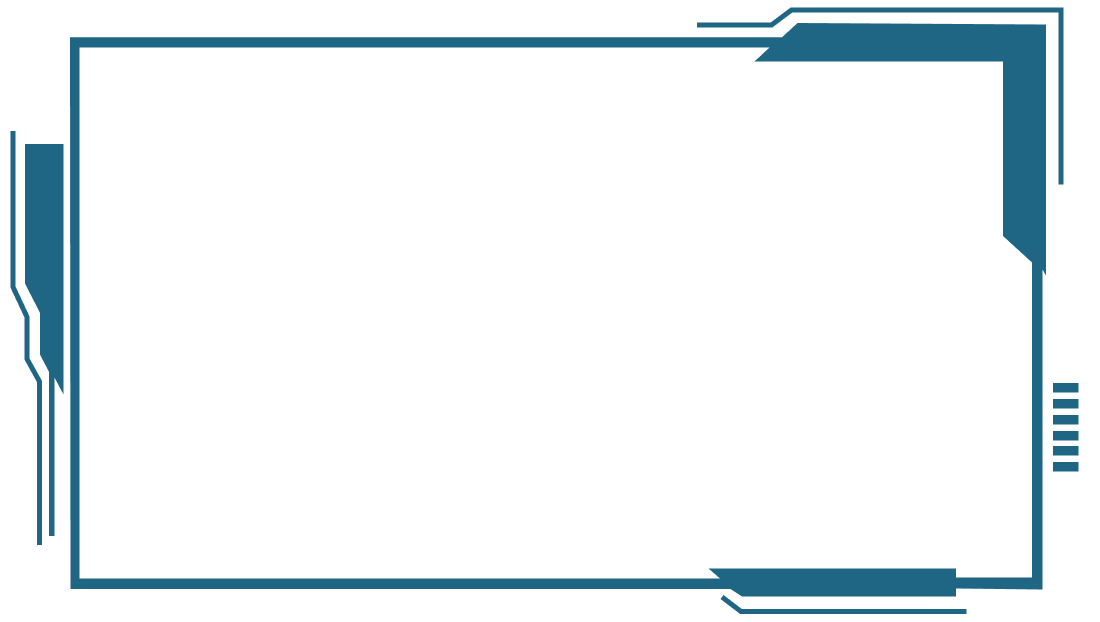
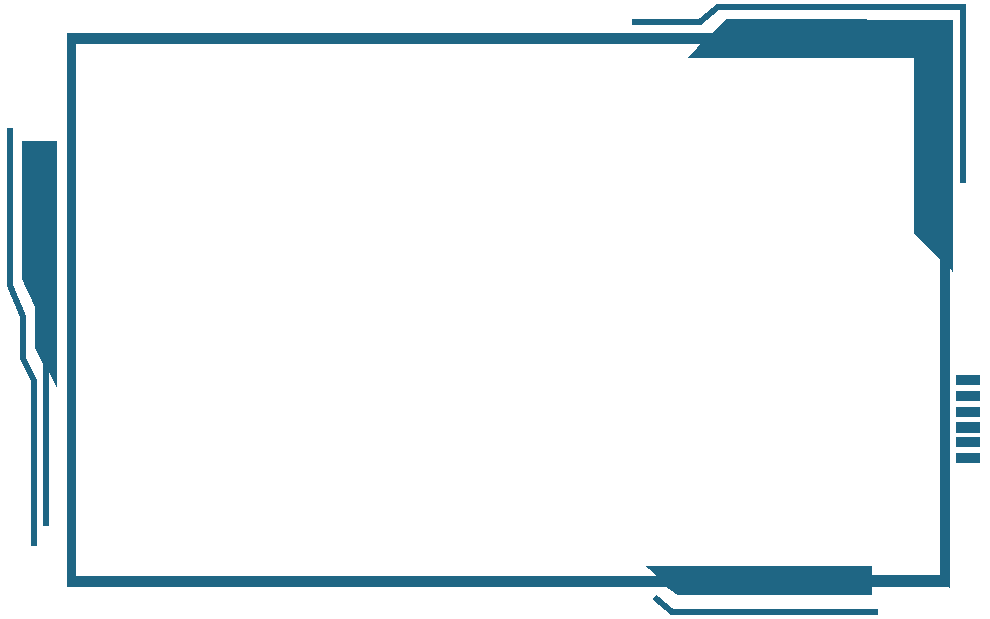
Atualização funcional 04-06

Changed region(s): [[0.0, 0.0, 1.0, 1.0]]

diff --git a/main.py b/main.py
@@ -260,6 +260,7 @@ editor_imagem.width = 700
 editor_imagem.height = 350
 editor_imagem.padding = (0, 0, 0, 0)
 editor_imagem.fit_mode = "fill"
+editor_imagem.source = ""
 
 layout_rodape = BoxLayout()
 layout_rodape.size_hint = (None, None)
@@ -437,8 +438,12 @@ def colar_molde(captura_tela, molde, posicoes, cor="R"):
 
     gerar_miniatura(captura_tela, posicoes, cor)
 
-    editor_imagem.source = f'{caminho_fonte}/gallery/imagemMesclada.png'
-    editor_imagem.reload()
+    if "imagemCortadaComBorda.png" in editor_imagem.source:
+        editor_imagem.source = f'{caminho_fonte}/gallery/imagemCortadaComBorda.png'
+        editor_imagem.reload()
+    else:
+        editor_imagem.source = f'{caminho_fonte}/gallery/imagemMesclada.png'
+        editor_imagem.reload()
 
 
 def gerar_miniatura(img, posicoes, cor="R"):
@@ -467,16 +472,17 @@ def gerar_miniatura(img, posicoes, cor="R"):
             pontaUmY = pontaUmY - 25
             pontaDoisY = pontaDoisY - 25
 
-    imagem_cortada = img.crop((pontaUmX, pontaUmY, pontaDoisX, pontaDoisY))
+    #imagem_cortada = img.crop((pontaUmX, pontaUmY, pontaDoisX, pontaDoisY))
+    imagem_cortada = img.resize((880,550))
 
     borda_molde = Image.open(f'resources/borda_miniatura_M.png')
     borda_molde_colorida = Image.open(f'resources/borda_miniatura_{cor}.png')
 
-    borda_molde.paste(imagem_cortada, (70, 37))
+    borda_molde.paste(imagem_cortada, (67, 33))
 
     borda_molde.paste(borda_molde_colorida, (0, 0), borda_molde_colorida)
 
-    #imagem_cortada.save(f'{caminho_fonte}/gallery/imagemCortada.png')
+    imagem_cortada.save(f'{caminho_fonte}/gallery/imagemCortada.png')
     borda_molde.save(f'{caminho_fonte}/gallery/imagemCortadaComBorda.png')
 
 
